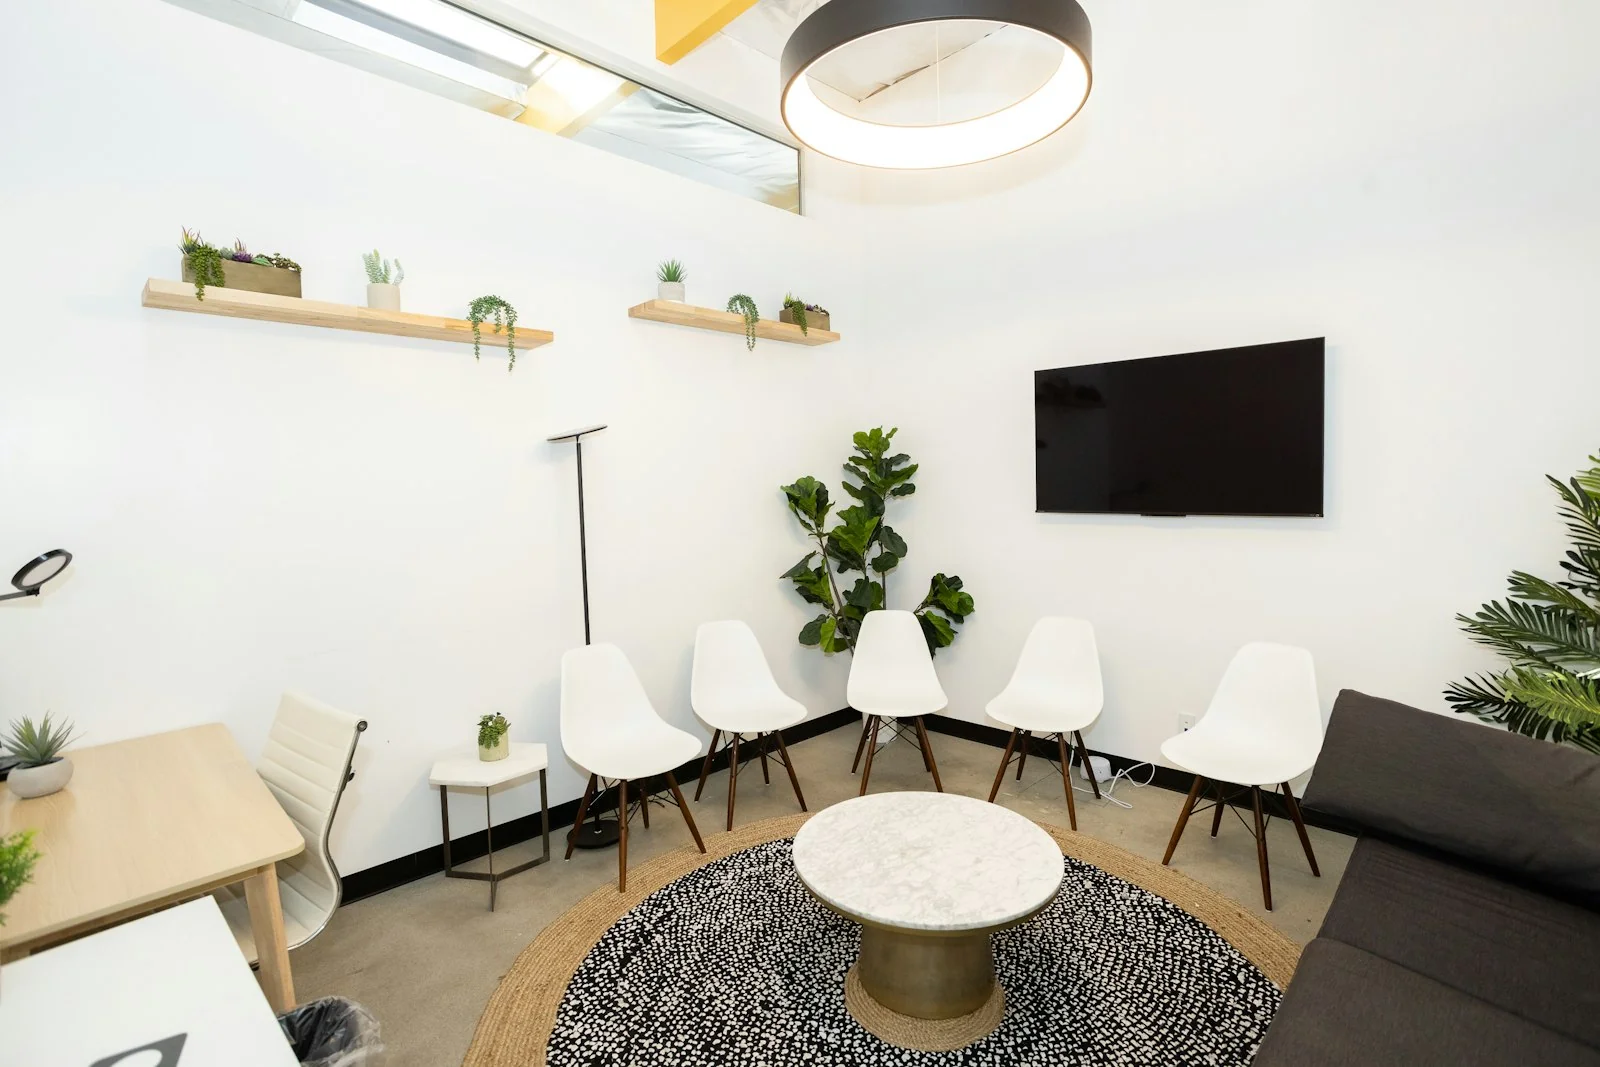
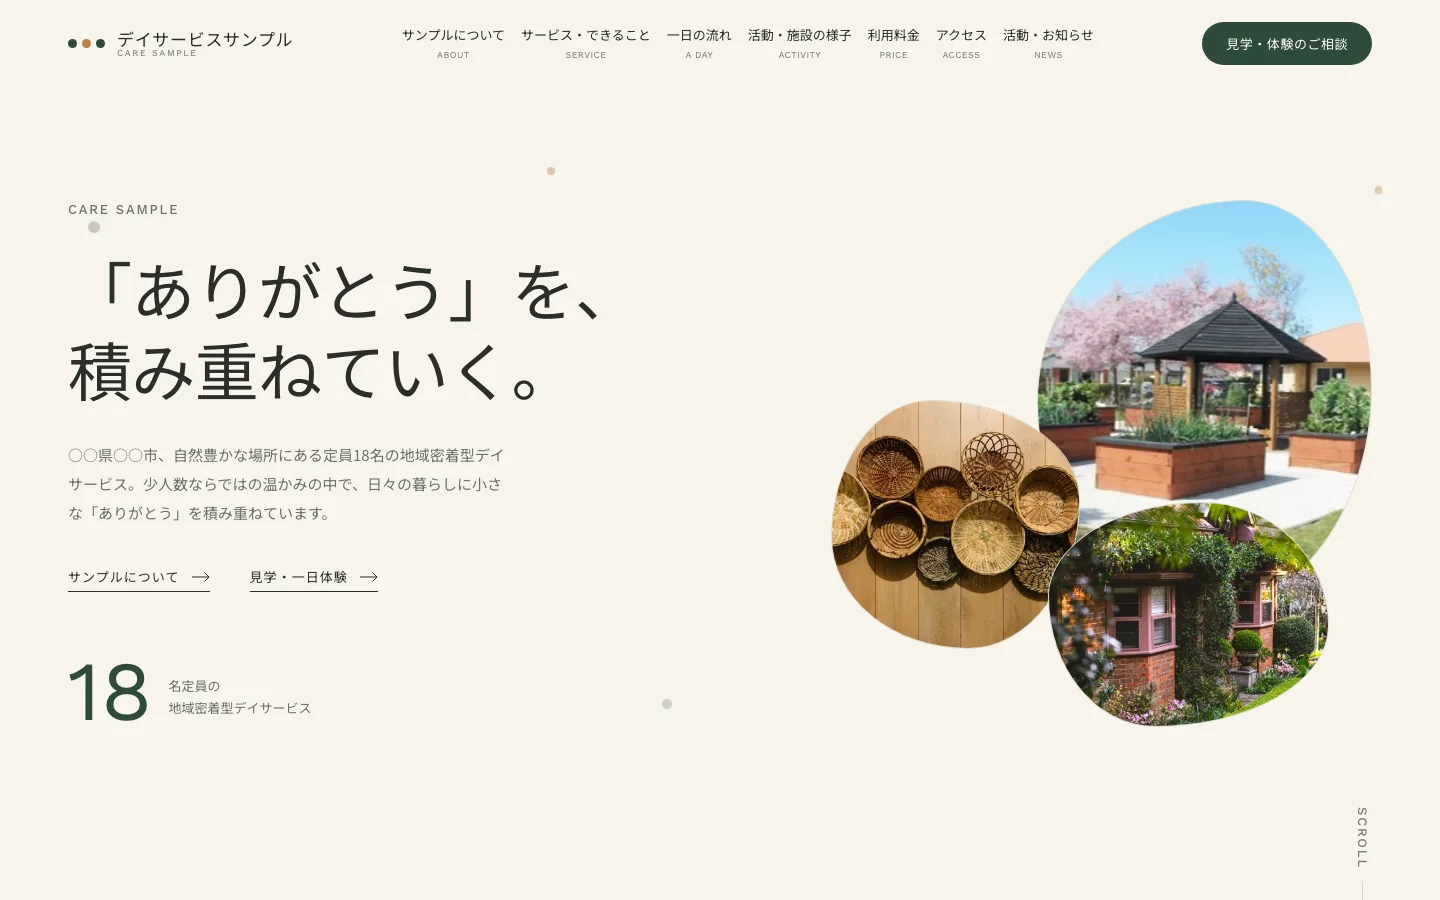
制作サンプルをHome/works完全統一し、匿名化サイトへのリンクに変更
Home（4件のみ表示）と/works（全件表示）が別々のロジックで実在企業名
（折原工務店/小野建設/デイサービスだん・だん/COMPASS Academy/
ROASTERY & CAFE）を表示していた状態を解消し、Sample 01〜04の4件に
完全統一。両ページとも同一のworkSamples配列のみを参照するため、
今後Sampleを追加・変更しても表示がズレない構造にした。

さらに、Sample 01〜03のリンク先を実在企業の元モックアップから、
実在企業の情報（社名・住所・電話番号・地図・実績年数・代表者名・写真等）
を完全に匿名化した複製サイト（Cloudflareに新規デプロイ）へ変更。
元モックアップ（clients/配下）は一切変更していない。カード画像も
各Sampleサイト自身のファーストビューのスクリーンショットに差し替えた。
Sample 04は既存の匿名カフェサンプルを流用し、表示形式のみ統一。

Home見出し「制作サンプル。」の句点を削除。

diff --git a/app/content/works.ts b/app/content/works.ts
@@ -1,8 +1,7 @@
-import thumbCafeD from "../assets/images/works/thumb-cafe-d.webp";
-import thumbCramSchoolA from "../assets/images/works/thumb-cram-school-a.webp";
 import { sample01 } from "../../sample/sample-01/data";
 import { sample02 } from "../../sample/sample-02/data";
 import { sample03 } from "../../sample/sample-03/data";
+import { sample04 } from "../../sample/sample-04/data";
 
 export type WorkSample = {
 	slug: string;
@@ -11,37 +10,18 @@ export type WorkSample = {
 	name: string;
 	concept: string;
 	tags: string[];
-	image: typeof thumbCafeD;
+	image: typeof sample01.image;
 	imageAlt: string;
 	url: string;
 };
 
-// sample-01〜03はVESWERKが営業用に制作した架空のSample（sample/配下で管理）。
-// 実在企業の情報は含まず、リンク先のみ既存の完成済みモックアップサイトを使用する。
+// Sample 01〜04はVESWERKが営業用に制作した架空のSample（sample/配下で管理）。
+// 実在企業の情報は含まず、リンク先のみ実在企業の情報を匿名化した複製サイトを使用する。
+// Home（トップページ）と/worksページは、このworkSamples配列のみを共通のデータソースとして
+// 参照するため、表示内容が食い違うことはない。
 export const workSamples: WorkSample[] = [
 	{ ...sample01, no: "01" },
 	{ ...sample02, no: "02" },
 	{ ...sample03, no: "03" },
-	{
-		slug: "compass-academy",
-		no: "04",
-		category: "CRAM SCHOOL / SAMPLE",
-		name: "COMPASS Academy",
-		concept: "「結果」にこだわる指導姿勢を、実直な情報設計で伝える。",
-		tags: ["学習塾・予備校", "コース紹介", "生徒の声"],
-		image: thumbCramSchoolA,
-		imageAlt: "タブレットで学習する生徒の写真を背景に「『結果』にこだわる、英語専門塾という選択。」という見出しを掲げたトップページ",
-		url: "https://cram-school-sample-a.pages.dev/",
-	},
-	{
-		slug: "roastery-cafe",
-		no: "05",
-		category: "CAFE / SAMPLE",
-		name: "ROASTERY & CAFE",
-		concept: "自家焙煎の香りと余白を、静かな一杯とともに。",
-		tags: ["個人経営カフェ", "ダークトーン", "予約導線"],
-		image: thumbCafeD,
-		imageAlt: "夕暮れの光が差し込む木目調の店内を背景に、大きな見出しコピーを重ねたダークトーンのトップページ",
-		url: "https://cafe-sample-d.pages.dev/",
-	},
+	{ ...sample04, no: "04" },
 ];

diff --git a/app/components/WorksPreview.tsx b/app/components/WorksPreview.tsx
@@ -7,24 +7,24 @@ import Reveal from "./Reveal";
  * 参考サイトの商品カード（縦長画像＋価格＋ボタン）パターンを、
  * 制作サンプルの縦長サムネイル＋カテゴリ＋名前＋コンセプトへ置き換えて再現する。
  */
-// Home（トップページ）は従来どおり4件のみを表示し、既存の見た目・レイアウトを変更しない。
-// works一覧ページ（/works）にのみ追加された制作サンプルは、ここでは表示対象から除外する。
-const homeSamples = workSamples.filter((sample) => sample.slug !== "compass-academy").slice(0, 4);
+// Home（トップページ）は/worksと同じ4件（Sample 01〜04）をすべて表示する。
+// 表示内容はworkSamples（Home/works共通のデータソース）のみに依存するため、
+// 今後Sampleを追加・変更してもHomeと/worksの表示がズレることはない。
 
-// Home縦長カード（aspect-[4/5]）で、各サイトの被写体の中心（建物・外観の特徴部分）が
-// クロップで欠けないよう、サンプルごとにobject-positionだけ調整する。
+// Home縦長カード（aspect-[4/5]）で、各Sampleサイトのスクリーンショットのうち
+// 見せたい部分（ロゴ・見出し側）がクロップで欠けないよう、object-positionだけ調整する。
 // /worksページ（横長4:3カード）は既定の中央クロップのままで影響しない。
 const homeImageOverrides: Record<string, { objectPosition: string }> = {
-	"sample-01": { objectPosition: "50% center" },
-	"sample-02": { objectPosition: "60% center" },
-	"sample-03": { objectPosition: "55% center" },
-	"roastery-cafe": { objectPosition: "15% center" },
+	"sample-01": { objectPosition: "0% 30%" },
+	"sample-02": { objectPosition: "0% 30%" },
+	"sample-03": { objectPosition: "0% 30%" },
+	"sample-04": { objectPosition: "0% 40%" },
 };
 
 export default function WorksPreview() {
 	return (
 		<div className="mt-14 grid gap-x-6 gap-y-12 sm:grid-cols-2 lg:grid-cols-4">
-			{homeSamples.map((sample, i) => {
+			{workSamples.map((sample, i) => {
 				const objectPosition = homeImageOverrides[sample.slug]?.objectPosition ?? "50% center";
 				return (
 					<Reveal key={sample.slug} delay={i * 70}>

diff --git a/app/works/page.tsx b/app/works/page.tsx
@@ -3,6 +3,14 @@ import Image from "next/image";
 import Reveal from "../components/Reveal";
 import { workSamples } from "../content/works";
 
+// カード画像はSampleサイトのファーストビューをそのままスクリーンショットしたもの
+// （1440×900、デスクトップ比率）のため、横長4:3カードでは既定の中央クロップだと
+// 見出し・ロゴが左端で切れてしまうSampleがある。該当するSampleだけobject-positionを
+// 左寄りに調整する。
+const imageObjectPositionOverrides: Record<string, string> = {
+	"sample-03": "20% center",
+};
+
 const pageTitle = "制作サンプル";
 const pageDescription =
 	"VESWERKが手がけるホームページの制作サンプルを掲載。カフェ・地域密着型事業者など、小さなお店・個人経営に向けたデザインの方向性をご覧いただけます。";
@@ -51,6 +59,7 @@ export default function WorksPage() {
 												alt={sample.imageAlt}
 												fill
 												sizes="(min-width: 1024px) 42vw, 90vw"
+												style={{ objectPosition: imageObjectPositionOverrides[sample.slug] ?? "50% center" }}
 												className="object-cover transition-transform duration-700 ease-out group-hover:scale-[1.04]"
 											/>
 										</div>

diff --git a/sample/sample-04/data.ts b/sample/sample-04/data.ts
@@ -1,0 +1,15 @@
+import image from "./image.webp";
+
+// VESWERKが営業用に制作した架空のSample。実在企業の情報は一切含まない。
+// リンク先（url）のみ、既に完成している制作用モックアップサイトを使用する。
+// カード画像はSampleサイト自体のファーストビューのスクリーンショット。
+export const sample04 = {
+	slug: "sample-04",
+	category: "CAFE / SAMPLE",
+	name: "Sample 04｜カフェ・店舗サイト",
+	concept: "お店の雰囲気と商品の魅力が自然に伝わるよう、写真と情報を整理した店舗サイト。",
+	tags: ["カフェ・店舗", "ビジュアル重視", "来店導線"],
+	image,
+	imageAlt: "Sample 04｜カフェ・店舗サイトの制作サンプル",
+	url: "https://cafe-sample-d.pages.dev/",
+};

diff --git a/sample/sample-02/data.ts b/sample/sample-02/data.ts
@@ -9,6 +9,6 @@ export const sample02 = {
 	concept: "建築の美しさを主役に、写真と余白を整えたミニマルな構成へ。引き込まれる世界観の設計サイト。",
 	tags: ["建築・設計", "写真ギャラリー", "ブランド訴求"],
 	image,
-	imageAlt: "コンクリートと木製ルーバーが織りなす陰影が印象的な、建築サイト向けの外観ディテール",
-	url: "https://ono-kensetsu-renewal-mockup.veswerk.workers.dev/",
+	imageAlt: "Sample 02｜建築・住宅サイトの制作サンプル",
+	url: "https://veswerk-sample-02.veswerk.workers.dev",
 };

diff --git a/sample/sample-01/data.ts b/sample/sample-01/data.ts
@@ -9,6 +9,6 @@ export const sample01 = {
 	concept: "施工事例を大きな写真で見せ、暮らしの質感が伝わる構成に。細部までこだわった住宅サイト。",
 	tags: ["住宅・工務店", "ビジュアル重視", "施工事例ギャラリー"],
 	image,
-	imageAlt: "観葉植物と間接照明でくつろぎの空間を演出した、住宅サイト向けのリビングルーム",
-	url: "https://orihara-koumuten-renewal-mockup.pages.dev/",
+	imageAlt: "Sample 01｜住宅・工務店サイトの制作サンプル",
+	url: "https://veswerk-sample-01.pages.dev",
 };

diff --git a/sample/sample-03/data.ts b/sample/sample-03/data.ts
@@ -9,6 +9,6 @@ export const sample03 = {
 	concept: "初めて訪れる方の視点に立ち、施設の雰囲気を写真で丁寧に紹介。安心感のある情報設計に。",
 	tags: ["福祉・施設", "情報設計", "導線設計"],
 	image,
-	imageAlt: "観葉植物と自然光が心地よい、福祉・施設サイト向けの明るい共有スペース",
-	url: "https://dandan-day-service-renewal-mockup.pages.dev/",
+	imageAlt: "Sample 03｜福祉・施設サイトの制作サンプル",
+	url: "https://veswerk-sample-03.pages.dev/",
 };

diff --git a/app/page.tsx b/app/page.tsx
@@ -107,7 +107,7 @@ export default function Home() {
 			{/* 制作実績 */}
 			<section className="border-t border-border py-24 sm:py-28 lg:py-32">
 				<div className="mx-auto max-w-6xl px-6">
-					<SectionHeading en="SAMPLE WORKS" ja="制作サンプル。" />
+					<SectionHeading en="SAMPLE WORKS" ja="制作サンプル" />
 					<WorksPreview />
 					<div className="mt-14 flex justify-center">
 						<a href="/works" className="btn-outline">
